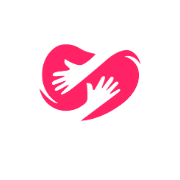
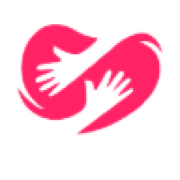
feat: update project branding and metadata to reflect Everlove Charity Foundation

Changed region(s): [[0.0833, 0.1111, 0.9167, 0.75]]

diff --git a/src/plugins/index.ts b/src/plugins/index.ts
@@ -1,23 +1,23 @@
+import { ecommercePlugin } from '@payloadcms/plugin-ecommerce'
 import { formBuilderPlugin } from '@payloadcms/plugin-form-builder'
 import { seoPlugin } from '@payloadcms/plugin-seo'
-import { Plugin } from 'payload'
 import { GenerateTitle, GenerateURL } from '@payloadcms/plugin-seo/types'
 import { FixedToolbarFeature, HeadingFeature, lexicalEditor } from '@payloadcms/richtext-lexical'
-import { ecommercePlugin } from '@payloadcms/plugin-ecommerce'
+import { Plugin } from 'payload'
 
 import { stripeAdapter } from '@payloadcms/plugin-ecommerce/payments/stripe'
 
-import { Page, Product } from '@/payload-types'
-import { getServerSideURL } from '@/utilities/getURL'
-import { ProductsCollection } from '@/collections/Products'
-import { adminOrCustomerOwner } from '@/access/adminOrCustomerOwner'
-import { adminOrPublishedStatus } from '@/access/adminOrPublishedStatus'
 import { adminOnly } from '@/access/adminOnly'
 import { adminOnlyFieldAccess } from '@/access/adminOnlyFieldAccess'
+import { adminOrCustomerOwner } from '@/access/adminOrCustomerOwner'
+import { adminOrPublishedStatus } from '@/access/adminOrPublishedStatus'
 import { customerOnlyFieldAccess } from '@/access/customerOnlyFieldAccess'
+import { ProductsCollection } from '@/collections/Products'
+import { Page, Product } from '@/payload-types'
+import { getServerSideURL } from '@/utilities/getURL'
 
 const generateTitle: GenerateTitle<Product | Page> = ({ doc }) => {
-  return doc?.title ? `${doc.title} | Payload Ecommerce Template` : 'Payload Ecommerce Template'
+  return doc?.title ? `${doc.title} | Everlove Charity Foundation` : 'Everlove Charity Foundation'
 }
 
 const generateURL: GenerateURL<Product | Page> = ({ doc }) => {

diff --git a/src/app/(app)/home/components/EverloveHeader.tsx b/src/app/(app)/home/components/EverloveHeader.tsx
@@ -1,6 +1,7 @@
 'use client'
 
-import { Heart, Menu, X } from 'lucide-react'
+import Image from 'next/image'
+import { Menu, X } from 'lucide-react'
 import { useEffect, useState } from 'react'
 
 import { NAV_ITEMS } from '../constants'
@@ -46,11 +47,12 @@ export function EverloveHeader() {
           }}
           type="button"
         >
-          <span className={`rounded-full p-2 ${isScrolled ? 'bg-[#eb3f69]' : 'bg-white/90'}`}>
-            <Heart
-              className={`h-6 w-6 ${isScrolled ? 'text-white' : 'text-[#eb3f69]'}`}
-              fill="currentColor"
-            />
+          <span
+            className={`flex items-center justify-center rounded-full p-1.5 shadow-sm ${
+              isScrolled ? 'bg-white' : 'bg-white/90'
+            }`}
+          >
+            <Image alt="Everlove logo" height={36} src="/icon1.png" width={36} priority />
           </span>
           <span className={`text-3xl font-bold tracking-tight ${isScrolled ? 'text-slate-900' : 'text-white'}`}>
             Everlove

diff --git a/src/endpoints/seed/home.ts b/src/endpoints/seed/home.ts
@@ -1,4 +1,4 @@
-import type { Category, Media } from '@/payload-types'
+import type { Media } from '@/payload-types'
 import { RequiredDataFromCollectionSlug } from 'payload'
 
 type ProductArgs = {
@@ -46,7 +46,7 @@ export const homePageData: (args: ProductArgs) => RequiredDataFromCollectionSlug
                   format: 0,
                   mode: 'normal',
                   style: '',
-                  text: 'Payload Ecommerce Template',
+                  text: 'Everlove Charity Foundation',
                   version: 1,
                 },
               ],
@@ -612,7 +612,7 @@ export const homePageData: (args: ProductArgs) => RequiredDataFromCollectionSlug
       description: 'An open-source ecommerce site built with Payload and Next.js.',
       // @ts-ignore
       image: metaImage,
-      title: 'Payload Ecommerce Template',
+      title: 'Everlove Charity Foundation',
     },
     title: 'Home',
   }

diff --git a/src/endpoints/seed/home-static.ts b/src/endpoints/seed/home-static.ts
@@ -19,7 +19,7 @@ export const homeStaticData: () => RequiredDataFromCollectionSlug<'pages'> = () 
                   format: 0,
                   mode: 'normal',
                   style: '',
-                  text: 'Payload Ecommerce Template',
+                  text: 'Everlove Charity Foundation',
                   version: 1,
                 },
               ],
@@ -81,8 +81,8 @@ export const homeStaticData: () => RequiredDataFromCollectionSlug<'pages'> = () 
     },
     layout: [],
     meta: {
-      description: 'An open-source ecommerce site built with Payload and Next.js.',
-      title: 'Payload Ecommerce Template',
+      description: 'A non-profit organization making education accessible to all children.',
+      title: 'Everlove Charity Foundation',
     },
     title: 'Home',
   }

diff --git a/tests/e2e/frontend.e2e.spec.ts b/tests/e2e/frontend.e2e.spec.ts
@@ -1,5 +1,5 @@
+import { expect, Page, test } from '@playwright/test'
 import path from 'path'
-import { test, expect, Page } from '@playwright/test'
 import { fileURLToPath } from 'url'
 
 const filename = fileURLToPath(import.meta.url)
@@ -29,11 +29,11 @@ test.describe('Frontend', () => {
   test('can go on homepage', async ({ page }) => {
     await page.goto(baseURL)
 
-    await expect(page).toHaveTitle(/Payload Ecommerce Template/)
+    await expect(page).toHaveTitle(/Everlove Charity Foundation/)
 
     const heading = page.locator('h1').first()
 
-    await expect(heading).toHaveText('Payload Ecommerce Template')
+    await expect(heading).toHaveText('Everlove Charity Foundation')
   })
 
   test('can sign up and subsequently login', async ({ page }) => {

diff --git a/src/endpoints/seed/product-hat.ts b/src/endpoints/seed/product-hat.ts
@@ -1,5 +1,4 @@
-import type { Category, Product, VariantOption, VariantType } from '@/payload-types'
-import type { Media } from '@/payload-types'
+import type { Category, Media, Product, VariantType } from '@/payload-types'
 import { RequiredDataFromCollectionSlug } from 'payload'
 
 type ProductArgs = {
@@ -19,7 +18,7 @@ export const productHatData: (args: ProductArgs) => RequiredDataFromCollectionSl
 }) => {
   return {
     meta: {
-      title: 'Hat | Payload Ecommerce Template',
+      title: 'Hat | Everlove Charity Foundation',
       image: metaImage,
       description:
         'Top off your look with our classic hat, crafted for style and comfort. Made with breathable, high-quality materials and an adjustable strap for the perfect fit.',

diff --git a/src/utilities/generateMeta.ts b/src/utilities/generateMeta.ts
@@ -28,9 +28,9 @@ export const generateMeta = async (args: { doc: Page | Product }): Promise<Metad
             },
           ]
         : undefined,
-      title: doc?.meta?.title || doc?.title || 'Payload Ecommerce Template',
+      title: doc?.meta?.title || doc?.title || 'Everlove Charity Foundation',
       url: Array.isArray(doc?.slug) ? doc?.slug.join('/') : '/',
     }),
-    title: doc?.meta?.title || doc?.title || 'Payload Ecommerce Template',
+    title: doc?.meta?.title || doc?.title || 'Everlove Charity Foundation',
   }
 }

diff --git a/src/endpoints/seed/product-tshirt.ts b/src/endpoints/seed/product-tshirt.ts
@@ -25,7 +25,7 @@ export const productTshirtData: (
     variantTypes: variantTypes,
     inventory: 0,
     meta: {
-      title: 'Tshirt | Payload Ecommerce Template',
+      title: 'Tshirt | Everlove Charity Foundation',
       image: metaImage,
       description:
         'Top off your look with our classic Tshirt, crafted for style and comfort. Made with breathable, high-quality materials and an adjustable strap for the perfect fit.',

diff --git a/README.md b/README.md
@@ -1,8 +1,8 @@
-# Payload Ecommerce Template
+# Everlove Charity Foundation - Payload Ecommerce Template
 
 This template is in **BETA**.
 
-This is the official [Payload Ecommerce Template](https://github.com/payloadcms/payload/blob/main/templates/ecommerce). This repo includes a fully-working backend, enterprise-grade admin panel, and a beautifully designed, production-ready ecommerce website.
+This is based on the official [Payload Ecommerce Template](https://github.com/payloadcms/payload/blob/main/templates/ecommerce). This repo includes a fully-working backend, enterprise-grade admin panel, and a beautifully designed, production-ready ecommerce website.
 
 This template is right for you if you are working on building an ecommerce project or shop with Payload.
 
@@ -16,14 +16,14 @@ Core features:
 - [Live Preview](#live-preview)
 - [On-demand Revalidation](#on-demand-revalidation)
 - [SEO](#seo)
-- [Search & Filters](#search)
+- [Search &amp; Filters](#search)
 - [Jobs and Scheduled Publishing](#jobs-and-scheduled-publish)
 - [Website](#website)
-- [Products & Variants](#products-and-variants)
+- [Products &amp; Variants](#products-and-variants)
 - [User accounts](#user-accounts)
 - [Carts](#carts)
 - [Guest checkout](#guests)
-- [Orders & Transactions](#orders-and-transactions)
+- [Orders &amp; Transactions](#orders-and-transactions)
 - [Stripe Payments](#stripe)
 - [Currencies](#currencies)
 - [Automated Tests](#tests)
@@ -45,9 +45,9 @@ pnpx create-payload-app my-project -t ecommerce
 ### Development
 
 1. First [clone the repo](#clone) if you have not done so already
-1. `cd my-project && cp .env.example .env` to copy the example environment variables
-1. `pnpm install && pnpm dev` to install dependencies and start the dev server
-1. open `http://localhost:3000` to open the app in your browser
+2. `cd my-project && cp .env.example .env` to copy the example environment variables
+3. `pnpm install && pnpm dev` to install dependencies and start the dev server
+4. open `http://localhost:3000` to open the app in your browser
 
 That's it! Changes made in `./src` will be reflected in your app. Follow the on-screen instructions to login and create your first admin user. Then check out [Production](#production) once you're ready to build and serve your app, and [Deployment](#deployment) when you're ready to go live.
 
@@ -181,7 +181,7 @@ By default the template ships with support only for USD however you can change t
 
 ## Stripe
 
-By default we ship with the Stripe adapter configured, so you'll need to setup the `secretKey`, `publishableKey` and `webhookSecret` from your Stripe dashboard. Follow [Stripe's guide](https://docs.stripe.com/get-started/api-request?locale=en-GB) on how to set this up.
+By default we ship with the Stripe adapter configured, so you'll need to setup the `secretKey`, `publishableKey` and `webhookSecret` from your Stripe dashboard. Follow [Stripe&#39;s guide](https://docs.stripe.com/get-started/api-request?locale=en-GB) on how to set this up.
 
 ## Tests
 
@@ -280,8 +280,8 @@ This command will check for any migrations that have not yet been run and try to
 Alternatively, you can use [Docker](https://www.docker.com) to spin up this template locally. To do so, follow these steps:
 
 1. Follow [steps 1 and 2 from above](#development), the docker-compose file will automatically use the `.env` file in your project root
-1. Next run `docker-compose up`
-1. Follow [steps 4 and 5 from above](#development) to login and create your first admin user
+2. Next run `docker-compose up`
+3. Follow [steps 4 and 5 from above](#development) to login and create your first admin user
 
 That's it! The Docker instance will help you get up and running quickly while also standardizing the development environment across your teams.
 
@@ -302,8 +302,8 @@ The seed script will also create a demo user for demonstration purposes only:
 To run Payload in production, you need to build and start the Admin panel. To do so, follow these steps:
 
 1. Invoke the `next build` script by running `pnpm build` or `npm run build` in your project root. This creates a `.next` directory with a production-ready admin bundle.
-1. Finally run `pnpm start` or `npm run start` to run Node in production and serve Payload from the `.build` directory.
-1. When you're ready to go live, see Deployment below for more details.
+2. Finally run `pnpm start` or `npm run start` to run Node in production and serve Payload from the `.build` directory.
+3. When you're ready to go live, see Deployment below for more details.
 
 ### Deploying to Vercel
 
